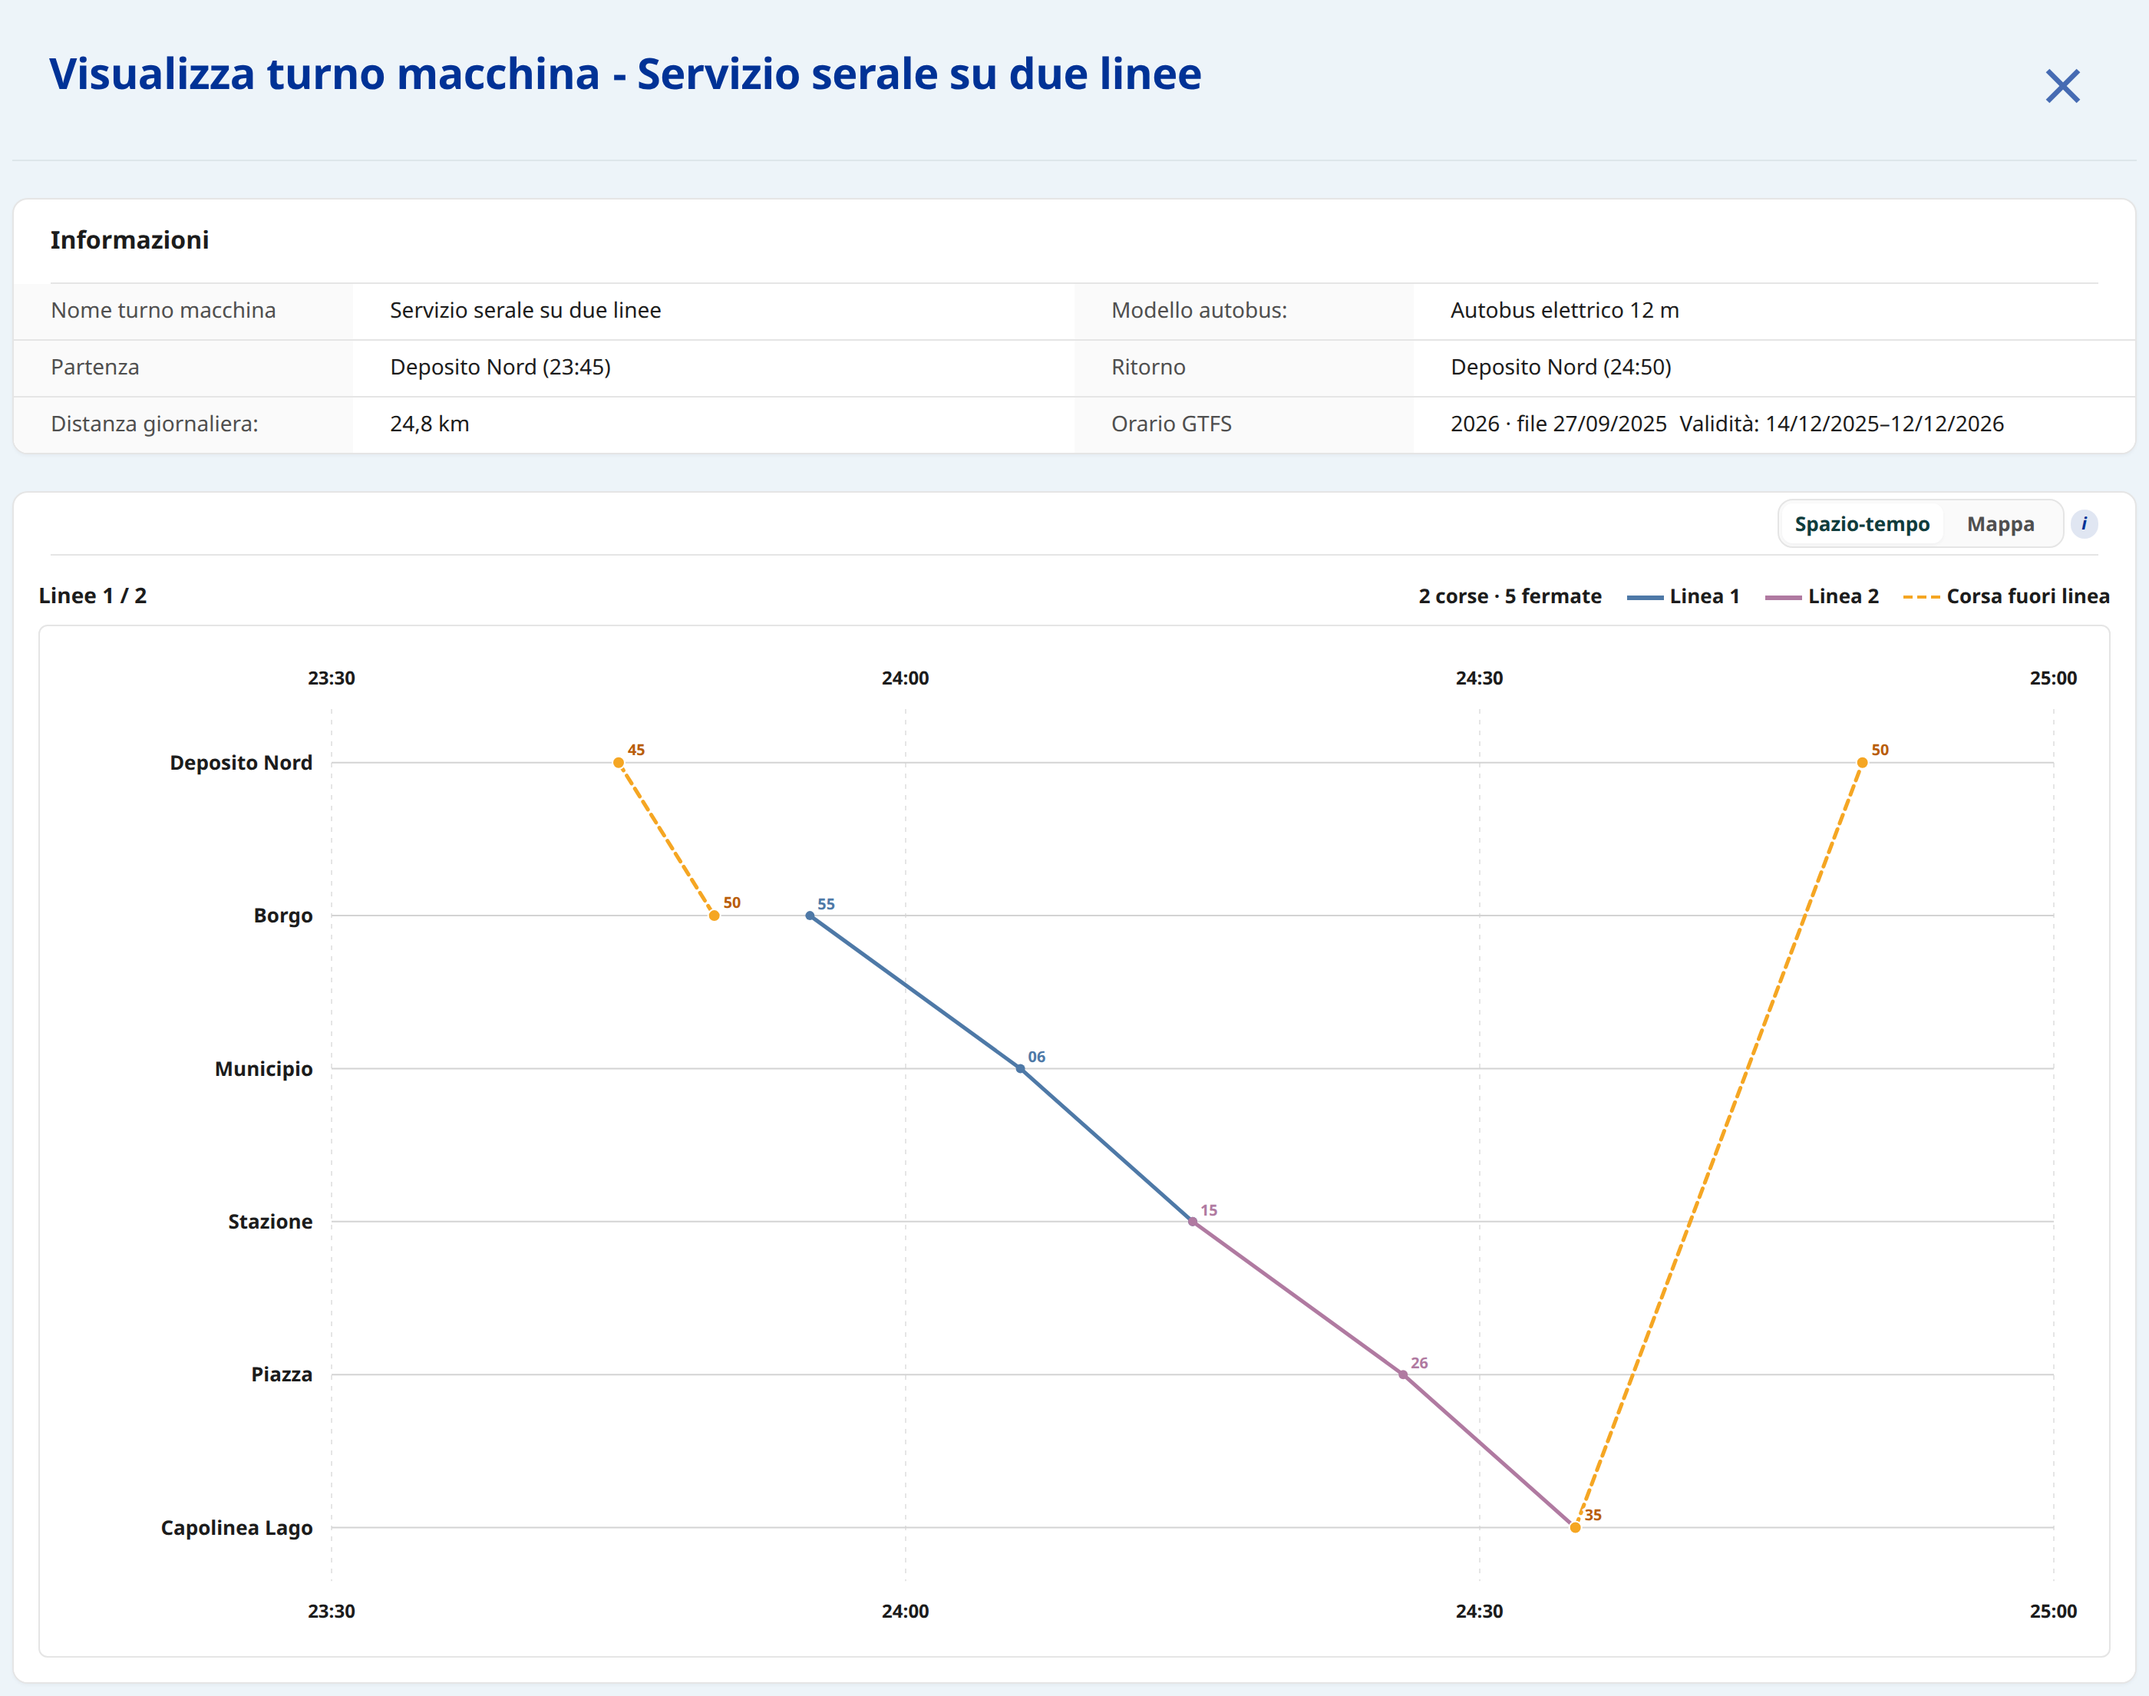
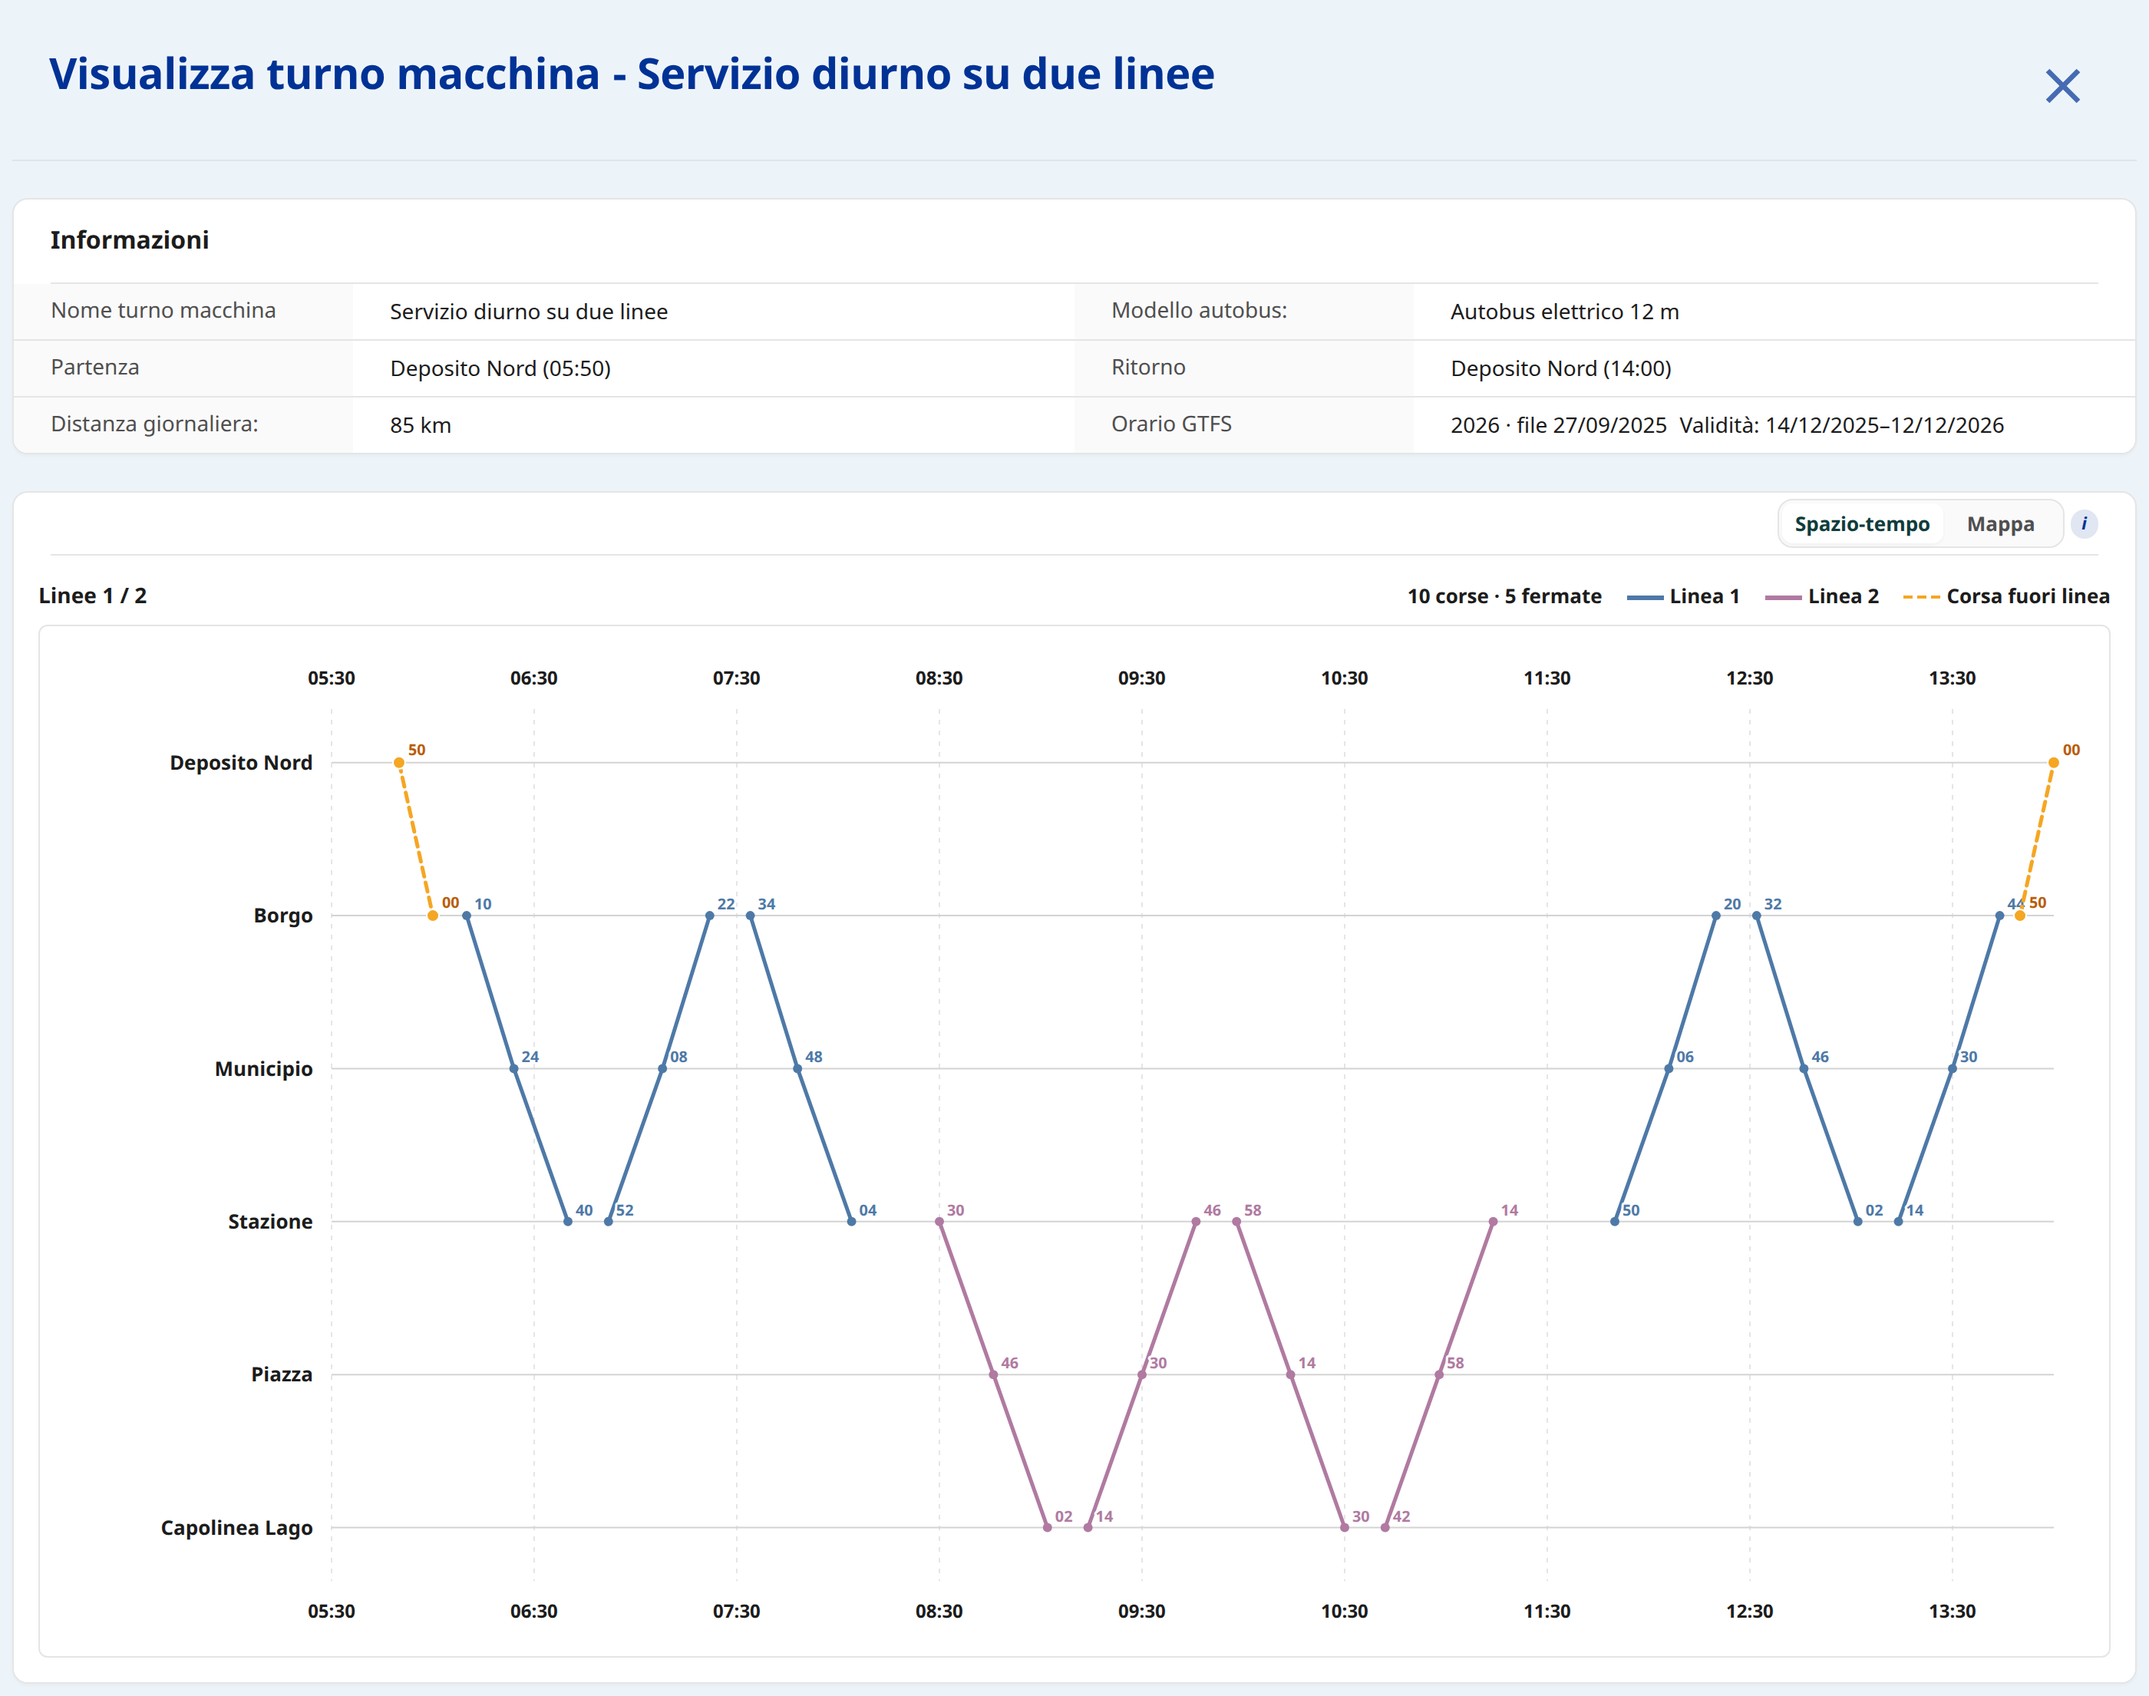
Illustrate a full multi-route duty with ten service trips

diff --git a/tests/e2e/shift-guide-screenshots.spec.js b/tests/e2e/shift-guide-screenshots.spec.js
@@ -66,7 +66,7 @@ function movement(id, tripId, stops, route = null) {
     departure_time: stops[0][1],
     arrival_time: stops.at(-1)[1],
     status: route ? "gtfs" : "depot",
-    ...(route && { route_id: "line", route_label: route, route_short_name: route }),
+    ...(route && { route_id: route === "1" ? "line" : `line-${route}`, route_label: route, route_short_name: route }),
     stop_times: stops.map(([stop_name, time], index) => ({
       id: stop_name.toLowerCase().replaceAll(" ", "-"),
       stop_name,
@@ -78,30 +78,67 @@ function movement(id, tripId, stops, route = null) {
   };
 }
 
-const singleRouteMovements = [
-  movement("out", "depot-start", [["Deposito Nord", "23:45:00"], ["Borgo", "23:50:00"]]),
-  movement("trip-a", "gtfs-night-a", [["Borgo", "23:55:00"], ["Municipio", "24:06:00"], ["Stazione", "24:15:00"]], "1"),
-  movement("trip-b", "gtfs-night-b", [["Stazione", "24:15:00"], ["Piazza", "24:26:00"], ["Capolinea Lago", "24:35:00"]], "1"),
-  movement("back", "depot-end", [["Capolinea Lago", "24:35:00"], ["Deposito Nord", "24:50:00"]]),
-];
+const terminalRoutes = {
+  "1": { stops: ["Borgo", "Municipio", "Stazione"], km: 7.5 },
+  "2": { stops: ["Stazione", "Piazza", "Capolinea Lago"], km: 8.5 },
+};
 
-const movements = singleRouteMovements.map(trip => trip.id === "trip-b"
-  ? { ...trip, route_id: "line-2", route_label: "2", route_short_name: "2" }
-  : trip);
+const stopCoordinates = {
+  "Deposito Nord": [46.064, 8.958],
+  Borgo: [46.042, 8.954],
+  Municipio: [46.025, 8.956],
+  Stazione: [45.992, 8.939],
+  Piazza: [45.966, 8.934],
+  "Capolinea Lago": [45.939, 8.909],
+};
+
+function corridorMovement(id, stops, clocks, km, route) {
+  const trip = movement(id, `demo-${id}`, stops.map((stop, index) => [stop, `${clocks[index]}:00`]), route);
+  return {
+    ...trip,
+    distance_km: km,
+    stop_times: trip.stop_times.map(stop => ({
+      ...stop,
+      stop_lat: stopCoordinates[stop.stop_name][0],
+      stop_lon: stopCoordinates[stop.stop_name][1],
+    })),
+  };
+}
+
+function serviceMovement(number, route, direction, clocks) {
+  const { stops, km } = terminalRoutes[route];
+  return corridorMovement(`service-${number}`, direction === "outbound" ? stops : stops.toReversed(), clocks, km, route);
+}
+
+const movements = [
+  corridorMovement("out", ["Deposito Nord", "Borgo"], ["05:50", "06:00"], 3),
+  serviceMovement(1, "1", "outbound", ["06:10", "06:24", "06:40"]),
+  serviceMovement(2, "1", "inbound", ["06:52", "07:08", "07:22"]),
+  serviceMovement(3, "1", "outbound", ["07:34", "07:48", "08:04"]),
+  serviceMovement(4, "2", "outbound", ["08:30", "08:46", "09:02"]),
+  serviceMovement(5, "2", "inbound", ["09:14", "09:30", "09:46"]),
+  serviceMovement(6, "2", "outbound", ["09:58", "10:14", "10:30"]),
+  serviceMovement(7, "2", "inbound", ["10:42", "10:58", "11:14"]),
+  serviceMovement(8, "1", "inbound", ["11:50", "12:06", "12:20"]),
+  serviceMovement(9, "1", "outbound", ["12:32", "12:46", "13:02"]),
+  serviceMovement(10, "1", "inbound", ["13:14", "13:30", "13:44"]),
+  corridorMovement("back", ["Borgo", "Deposito Nord"], ["13:50", "14:00"], 3),
+];
+const serviceTrips = movements.filter(trip => trip.status === "gtfs");
 
 test("captures the multiline space-time diagram in Italian", async ({ page, composer }) => {
   await page.setViewportSize({ width: 1640, height: 1200 });
   const row = {
     id: "demo",
-    name: "Servizio serale su due linee",
+    name: "Servizio diurno su due linee",
     bus_id: "bus",
     bus_model_name: "Autobus elettrico 12 m",
     start_depot: { name: "Deposito Nord" },
     end_depot: { name: "Deposito Nord" },
-    trip_count: 2,
-    start_time: "23:45:00",
-    end_time: "24:50:00",
-    daily_distance_km: 24.8,
+    trip_count: serviceTrips.length,
+    start_time: movements[0].departure_time,
+    end_time: movements.at(-1).arrival_time,
+    daily_distance_km: movements.reduce((sum, trip) => sum + trip.distance_km, 0),
     planner_version: 1,
     service_weekday: "monday",
     gtfs_datasets: [dataset],
@@ -134,10 +171,20 @@ test("captures the multiline space-time diagram in Italian", async ({ page, comp
   await expect(diagram.locator(".shift-space-time__route-key")).toHaveText(["Linea 1", "Linea 2"]);
   await expect(diagram.locator(".shift-space-time__depot-line")).toHaveCount(2);
   await expect(diagram.locator(".shift-space-time__depot-key")).toHaveText("Corsa fuori linea");
-  await expect(diagram.locator(".shift-space-time__trip")).toHaveCount(2);
-  await expect.poll(() => diagram.locator('[data-role="space-time-trip"]').evaluateAll(nodes =>
-    nodes.map(node => [node.getAttribute("data-route-id"), node.querySelector("path").getAttribute("stroke")])
-  )).toEqual([["line", "#4e79a7"], ["line-2", "#b07aa1"]]);
+  await expect(diagram.locator(".shift-space-time__trip")).toHaveCount(10);
+  for (const [route, count, color] of [["line", 6, "#4e79a7"], ["line-2", 4, "#b07aa1"]]) {
+    const strokes = diagram.locator(`[data-route-id="${route}"] > path`);
+    await expect(strokes).toHaveCount(count);
+    for (const stroke of await strokes.all()) {
+      await expect(stroke).toHaveAttribute("stroke", color);
+    }
+  }
+  const scroll = diagram.locator(".shift-space-time__scroll");
+  await expect.poll(() => scroll.evaluate(el => el.scrollWidth - el.clientWidth)).toBe(0);
+  for (const [previous, next] of movements.slice(1).map((trip, index) => [movements[index], trip])) {
+    expect(previous.end_stop_name).toBe(next.start_stop_name);
+    expect(previous.arrival_time < next.departure_time).toBe(true);
+  }
   await page.evaluate(() => document.fonts.ready);
   await page.mouse.move(0, 0);
   await page.locator(".visualize-shift").screenshot({ path: `${output}/shift-visualisation.png`, animations: "disabled" });

diff --git a/guide/content.js b/guide/content.js
@@ -1,6 +1,6 @@
 import { useCaseSections } from "./use-cases.js";
 
-export const GUIDE_BASELINE_VERSION = "1.4.4-rc.1";
+export const GUIDE_BASELINE_VERSION = "1.4.4-rc.2";
 export const GUIDE_UPDATED_AT = "25 November 2026";
 
 export const SUPPORTED_GUIDE_LANGUAGES = ["en", "de", "fr", "it"];
@@ -87,10 +87,10 @@ const GUIDE_FIGURES = {
     width: 2800,
     height: 2210,
     captions: {
-      en: "Lines 1 and 2 share a space-time diagram. Each line has its own colour. Dashed segments show non-revenue movements.",
-      de: "Die Linien 1 und 2 sind im selben Raum-Zeit-Diagramm dargestellt. Jede Linie hat eine eigene Farbe. Gestrichelte Abschnitte zeigen Leerfahrten.",
-      fr: "Les lignes 1 et 2 figurent sur le même diagramme espace-temps. Chaque ligne a sa couleur. Les pointillés indiquent les trajets hors ligne.",
-      it: "Le linee 1 e 2 compaiono nello stesso diagramma spazio-tempo. Ogni linea ha un colore. I tratti tratteggiati indicano le corse fuori linea.",
+      en: "Example vehicle block, 05:50–14:00. The bus runs six trips on line 1 (blue) and four on line 2 (mauve), changing lines at Stazione. The two dashed segments connect the depot.",
+      de: "Beispielumlauf von 05:50 bis 14:00 Uhr. Der Bus fährt sechsmal auf Linie 1 (blau) und viermal auf Linie 2 (violett). An der Haltestelle Stazione wechselt er die Linie. Die beiden gestrichelten Abschnitte zeigen die Aus- und Einfahrt zum Depot.",
+      fr: "Exemple de service voiture de 05:50 à 14:00. Le bus effectue six courses sur la ligne 1 (bleu) et quatre sur la ligne 2 (mauve). Il change de ligne à Stazione. Les deux trajets en pointillés relient le dépôt.",
+      it: "Turno di esempio dalle 05:50 alle 14:00. Il bus effettua sei corse sulla linea 1 (blu) e quattro sulla linea 2 (malva), con cambio di linea a Stazione. I due tratti tratteggiati indicano l’uscita e il rientro in deposito.",
     },
   },
   feasibilityForm: {

diff --git a/CHANGELOG.md b/CHANGELOG.md
@@ -1,5 +1,10 @@
 # Changelog
 
+## [1.4.4-rc.2] - 2026-11-25
+
+- Illustrate a multi-hour vehicle block with repeated outward and return trips on two routes, the change of line and the depot movements.
+- Include the four-language guide and screenshot updates from 1.4.4-rc.1.
+
 ## [1.4.4-rc.1] - 2026-11-25
 
 - Update the four-language user guide with the sequential vehicle-block planner, route colours, bus battery estimates, service-day selection, paired feasibility results and equivalent annual costs.

diff --git a/docs/user-guide/shifts-and-routes.md b/docs/user-guide/shifts-and-routes.md
@@ -1,7 +1,7 @@
 # Vehicle Blocks and Routes
 
 > Last updated: 2026-11-25
-> Interface baseline: Frontend v1.4.4-rc.1
+> Interface baseline: Frontend v1.4.4-rc.2
 
 A vehicle block is the ordered service assigned to one bus over a day. It joins
 scheduled GTFS trips to the movements required before, between, and after them.

diff --git a/docs/user-guide/feasibility-evaluation.md b/docs/user-guide/feasibility-evaluation.md
@@ -1,7 +1,7 @@
 # Feasibility Evaluation
 
 > Last updated: 2026-11-25
-> Interface baseline: Frontend v1.4.4-rc.1
+> Interface baseline: Frontend v1.4.4-rc.2
 
 A feasibility evaluation tests whether the selected vehicle blocks can be
 operated with the configured bus, battery, charging, and environmental inputs.

diff --git a/docs/user-guide/overview.md b/docs/user-guide/overview.md
@@ -1,7 +1,7 @@
 # User Guide: Overview
 
 > Last updated: 2026-11-25
-> Interface baseline: Frontend v1.4.4-rc.1
+> Interface baseline: Frontend v1.4.4-rc.2
 
 ELETTRA supports preliminary planning for battery-electric bus services. It
 connects fleet and timetable data to a technical feasibility gate, then uses a

diff --git a/docs/user-guide/comparison-and-export.md b/docs/user-guide/comparison-and-export.md
@@ -1,7 +1,7 @@
 # Comparison and Export
 
 > Last updated: 2026-11-25
-> Interface baseline: Frontend v1.4.4-rc.1
+> Interface baseline: Frontend v1.4.4-rc.2
 
 The **Analysis comparison** page compares two saved yearly analyses in the
 **General** scope using their configuration summaries and aggregate annual

diff --git a/docs/user-guide/simulation-results.md b/docs/user-guide/simulation-results.md
@@ -1,7 +1,7 @@
 # Feasibility Results
 
 > Last updated: 2026-11-25
-> Interface baseline: Frontend v1.4.4-rc.1
+> Interface baseline: Frontend v1.4.4-rc.2
 
 The feasibility result page is the technical gate between service preparation
 and yearly assessment. Read the overall verdict first, then inspect every

diff --git a/docs/user-guide/fleet-management.md b/docs/user-guide/fleet-management.md
@@ -1,7 +1,7 @@
 # Fleet Management
 
 > Last updated: 2026-11-25
-> Interface baseline: Frontend v1.4.4-rc.1
+> Interface baseline: Frontend v1.4.4-rc.2
 
 The Fleet area contains reusable inputs for analyses: **Buses**, **Custom
 Stops**, and **Vehicle blocks**. The current interface works with bus models;

diff --git a/docs/user-guide/yearly-analysis.md b/docs/user-guide/yearly-analysis.md
@@ -1,7 +1,7 @@
 # Yearly Analysis
 
 > Last updated: 2026-11-25
-> Interface baseline: Frontend v1.4.4-rc.1
+> Interface baseline: Frontend v1.4.4-rc.2
 
 A yearly analysis keeps the bus, battery, and charging design selected by a
 completed feasibility evaluation fixed and applies it to representative
